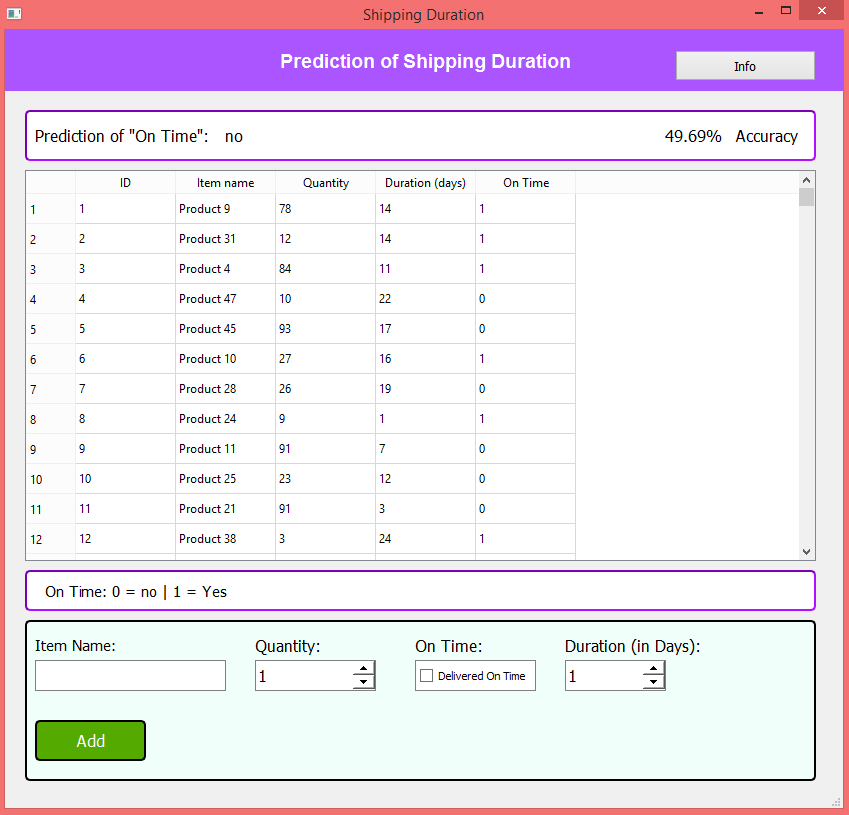
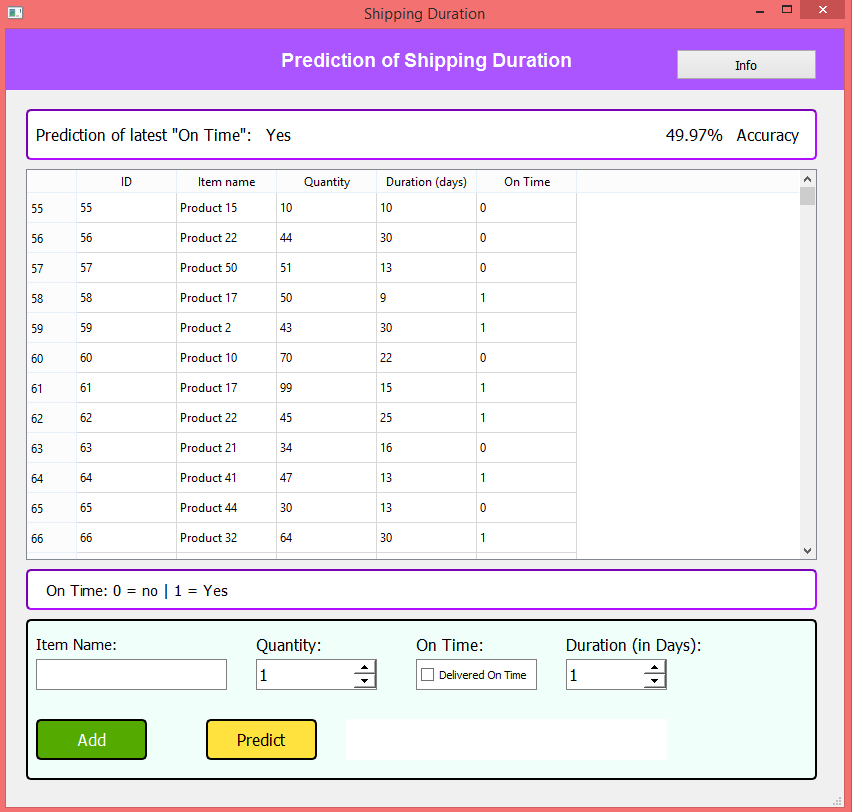
Create Custom Prediction Feature Added

diff --git a/app.py b/app.py
@@ -1,11 +1,11 @@
 from PyQt5 import QtCore, QtGui, QtWidgets
 from sklearn import tree
+from sklearn.ensemble import RandomForestClassifier
 from sklearn.metrics import accuracy_score
 from sklearn.preprocessing import StandardScaler
 import sqlite3
 import hashlib
 import random
-import statistics
 
 
 class Ui_MainWindow(object):
@@ -47,7 +47,7 @@ class Ui_MainWindow(object):
         self.containerHeader.setObjectName("containerHeader")
 
         self.predictionTitle = QtWidgets.QLabel(self.containerHeader)
-        self.predictionTitle.setGeometry(QtCore.QRect(10, 10, 181, 31))
+        self.predictionTitle.setGeometry(QtCore.QRect(10, 10, 221, 31))
         font = QtGui.QFont()
         font.setPointSize(12)
         self.predictionTitle.setFont(font)
@@ -57,7 +57,7 @@ class Ui_MainWindow(object):
         self.predictionTitle.setObjectName("predictionTitle")
 
         self.predictionValue = QtWidgets.QLabel(self.containerHeader)
-        self.predictionValue.setGeometry(QtCore.QRect(200, 10, 51, 31))
+        self.predictionValue.setGeometry(QtCore.QRect(240, 10, 51, 31))
         font = QtGui.QFont()
         font.setPointSize(12)
         self.predictionValue.setFont(font)
@@ -206,6 +206,26 @@ class Ui_MainWindow(object):
         self.tableInfo.setFrameShadow(QtWidgets.QFrame.Raised)
         self.tableInfo.setObjectName("tableInfo")
 
+        self.predictOntimeButton = QtWidgets.QPushButton(self.frame_2)
+        self.predictOntimeButton.setGeometry(QtCore.QRect(180, 100, 111, 41))
+        font = QtGui.QFont()
+        font.setPointSize(12)
+        self.predictOntimeButton.setFont(font)
+        self.predictOntimeButton.setStyleSheet("background-color: rgb(255, 226, 61);\n"
+                                               "color: black")
+        self.predictOntimeButton.setObjectName("predictOntimeButton")
+
+        self.createPredictionDisplay = QtWidgets.QLabel(self.frame_2)
+        self.createPredictionDisplay.setGeometry(QtCore.QRect(320, 100, 321, 41))
+        font = QtGui.QFont()
+        font.setPointSize(12)
+        self.createPredictionDisplay.setFont(font)
+        self.createPredictionDisplay.setStyleSheet("background-color:white;\n"
+                                                   "border: 2px none rgb(121, 0, 181);\n"
+                                                   "border-radius: 0px;\n"
+                                                   "padding-left: 5px;")
+        self.createPredictionDisplay.setObjectName("createPredictionDisplay")
+
         self.tableInfoTextView = QtWidgets.QLabel(self.tableInfo)
         self.tableInfoTextView.setGeometry(QtCore.QRect(20, 10, 751, 21))
         sizePolicy = QtWidgets.QSizePolicy(QtWidgets.QSizePolicy.Ignored, QtWidgets.QSizePolicy.Preferred)
@@ -241,12 +261,13 @@ class Ui_MainWindow(object):
 
         # Functions
         self.addShippingDurationButton.clicked.connect(self.save_shippeditem)
+        self.predictOntimeButton.clicked.connect(self.create_prediction)
 
     def retranslateUi(self, MainWindow):
         _translate = QtCore.QCoreApplication.translate
         MainWindow.setWindowTitle(_translate("MainWindow", "Shipping Duration"))
         self.apptitle.setText(_translate("MainWindow", "Prediction of Shipping Duration"))
-        self.predictionTitle.setText(_translate("MainWindow", "Prediction of \"On Time\": "))
+        self.predictionTitle.setText(_translate("MainWindow", "Prediction of latest \"On Time\": "))
         self.predictionValue.setText(_translate("MainWindow", " "))
         self.accuracyTitle.setText(_translate("MainWindow", "Accuracy"))
         self.shippeditemNameTextview.setText(_translate("MainWindow", "Item Name:"))
@@ -259,6 +280,7 @@ class Ui_MainWindow(object):
         self.infoButtonMainWindow.setText(_translate("MainWindow", "Info"))
         self.shippingDurationTable.setHorizontalHeaderLabels(
             ['ID', 'Item name', 'Quantity', 'Duration (days)', 'On Time'])
+        self.predictOntimeButton.setText(_translate("MainWindow", "Predict"))
 
     def load_Database(self):
         # Try to load data from database for checking purposes. If database was not created, then create database.
@@ -306,9 +328,9 @@ class Ui_MainWindow(object):
         # Load table with shipped items data
         rowIndex = 0
         self.shippingDurationTable.setRowCount(0)
-        # Data that is needed to create prediction (item name, quantity, duration)
+        # Features - Data that is needed to create prediction (item name, quantity, duration)
         self.X_coordinate = []
-        # Prediction data (on time values of all shipped items)
+        # Labels - Prediction data (on time values of all shipped items)
         self.y_coordinate = []
         self.shippingDurationTable.editTriggers()
         self.quantitityShippingItemsArray = []
@@ -330,8 +352,8 @@ class Ui_MainWindow(object):
                                                    QtWidgets.QTableWidgetItem(str(shippingItemEntry[4])))
 
                 self.X_coordinate.append([])
-                itemnameHash = int(hashlib.sha256("Hallo".encode("utf-8")).hexdigest(), 16) % 10 ** 10
-                self.X_coordinate[rowIndex - 1].append(itemnameHash)
+                #itemnameHash = int(hashlib.sha256("Hallo".encode("utf-8")).hexdigest(), 16) % 10 ** 10
+                #self.X_coordinate[rowIndex - 1].append(itemnameHash)
                 self.X_coordinate[rowIndex - 1].append(shippingItemEntry[2])
                 self.X_coordinate[rowIndex - 1].append(shippingItemEntry[3])
                 self.y_coordinate.append(shippingItemEntry[4])
@@ -349,7 +371,7 @@ class Ui_MainWindow(object):
         self.durationShippingItemsAverage = sum(self.durationShippingItemsArray) / len(self.durationShippingItemsArray)
         # Add additional shipping item for prediction of future shipping item "on item" value - X_Coordinate uses average value
         self.X_coordinate.append([])
-        self.X_coordinate[rowIndex - 1].append(0)
+        #self.X_coordinate[rowIndex - 1].append(0)
         self.X_coordinate[rowIndex - 1].append(self.quantitityShippingItemsAverage)
         self.X_coordinate[rowIndex - 1].append(self.durationShippingItemsAverage)
         self.y_coordinate.append(round((sum(self.y_coordinate)/len(self.y_coordinate)),0))
@@ -361,21 +383,27 @@ class Ui_MainWindow(object):
         if (len(self.shippeditemsRecords) > 0):
             # Most middle index of the database list
             center_index = int(len(self.shippeditemsRecords) / 2)
+            # Features
             # The first half of available data is used for training - The second is used to test the prediction (accuracy)
             self.X_coordinate_train = self.X_coordinate[:-center_index]
             self.X_coordinate_real = self.X_coordinate[-center_index:]
             # Scaling to optimize data against biases
-            # standardScalerObj = StandardScaler()
-            # self.X_coordinate_train = standardScalerObj.fit_transform(self.X_coordinate_train)
-            # self.X_coordinate_real = standardScalerObj.transform(self.X_coordinate_real)
+            #standardScalerObj = StandardScaler()
+            #self.X_coordinate_train = standardScalerObj.fit_transform(self.X_coordinate_train)
+            #self.X_coordinate_real = standardScalerObj.transform(self.X_coordinate_real)
 
-            # The data that should be predicted
+            # Labels - The data that should be predicted
             self.y_coordinate_train = self.y_coordinate[:-center_index]
             self.y_coordinate_real = self.y_coordinate[-center_index:]
             # Train through created shipping item data - Create prection
-            shippingitem_classification = tree.DecisionTreeClassifier()
+            shippingitem_classification = RandomForestClassifier(n_estimators=300)
             shippingitem_classification.fit(self.X_coordinate_train, self.y_coordinate_train)
             prediction_ontime_shippingitem = shippingitem_classification.predict(self.X_coordinate_real)
+
+            # OLD prediction method
+            #shippingitem_classification = tree.DecisionTreeClassifier()
+            #shippingitem_classification.fit(self.X_coordinate_train, self.y_coordinate_train)
+            #prediction_ontime_shippingitem = shippingitem_classification.predict(self.X_coordinate_real)
 
             if (prediction_ontime_shippingitem[len(prediction_ontime_shippingitem) - 1]):
                 self.predictionValue.setText("Yes")
@@ -394,8 +422,8 @@ class Ui_MainWindow(object):
 
     def save_shippeditem(self):
         shippeditemName = self.shippeditemNameValue.text().title()
-        shippeditemQuantity = self.shippedItemQuantityValue.text().title()
-        shippeditemDuration = self.shippedItemDurationValue.text().title()
+        shippeditemQuantity = int(self.shippedItemQuantityValue.text().title())
+        shippeditemDuration = int(self.shippedItemDurationValue.text().title())
         if (self.shippedItemOnTime.isChecked()):
             shippeditemOnTime = 1
         else:
@@ -471,6 +499,36 @@ class Ui_MainWindow(object):
         cursor.close()
         sqliteConn.close()
 
+    #Create prediction with new shipped item. Display the prediction value (on time) for the new shipped item.
+    def create_prediction(self):
+        shippeditemQuantity = int(self.shippedItemQuantityValue.text().title())
+        shippeditemDuration = int(self.shippedItemDurationValue.text().title())
+        self.X_coordinate.pop()
+        self.X_coordinate.append([shippeditemQuantity, shippeditemDuration])
+
+        train_index = int(len(self.shippeditemsRecords) * 0.70)
+        rest_index = len(self.shippeditemsRecords) - train_index
+
+        # The last 70 percent of available data is used for training - The first 30 is used to test the prediction (accuracy)
+        self.X_coordinate_train = self.X_coordinate[:train_index]
+        self.X_coordinate_real = self.X_coordinate[train_index:]
+
+        # The data that should be predicted
+        self.y_coordinate_train = self.y_coordinate[:train_index]
+        self.y_coordinate_real = self.y_coordinate[train_index:]
+        # Train through created shipping item data - Create prection
+        shippingitem_classification = RandomForestClassifier(n_estimators=300)
+        shippingitem_classification.fit(self.X_coordinate_train, self.y_coordinate_train)
+        prediction_ontime_shippingitem = shippingitem_classification.predict(self.X_coordinate_real)
+
+        #New prediction value is in the last array item
+        newPredictionValue = ""
+        if (prediction_ontime_shippingitem[-1]):
+            newPredictionValue="Yes"
+        else:
+            newPredictionValue="no"
+        newPredictionAccuracy = accuracy_score(prediction_ontime_shippingitem, self.y_coordinate_real) * 100
+        self.createPredictionDisplay.setText("-> On Time: " + newPredictionValue + " - " + "{:.2f}".format(newPredictionAccuracy) + "% Accuracy")
 
 class Ui_infoWindowDialog(object):
     def setupUi(self, infoWindowDialog):
@@ -519,10 +577,12 @@ class Ui_infoWindowDialog(object):
         infoWindowDialog.setWindowTitle(_translate("infoWindowDialog", "Info about this application"))
         self.okButtonInfoWindow.setText(_translate("infoWindowDialog", "OK"))
         self.infoWindowMainText.setText(_translate("infoWindowDialog",
-                                                   "<html><head/><body><p>This app allows you to save information about shipped items. </p><p>This app then creates a prediction, if the next (future) shipped item gets on time.<br>You also get an accuracy of the prediction. <br> More shipped items data equal to more accuracy in the prediction.<br>You can also use the function <span style=\" font-family:\'Courier New\'; color:#000000; background-color:#e4e4ff;\">load_test_data_into_database()</span> in the python file &quot;app.py&quot; <br>to add large test data for productive testing purposes. </p></body></html>"))
+                                                   "<html><head/><body><p>This app allows you to save information about shipped items. </p><p>This app then creates a prediction, if the next (future) shipped item gets on time.<br>You also get an accuracy of the prediction. <br> You can show the prediction for a new shipping item, when you click on the button predicate. <br> More shipped items data equal to more accuracy in the prediction. <br>You can also use the function <span style=\" font-family:\'Courier New\'; color:#000000; background-color:#e4e4ff;\">load_test_data_into_database()</span> in the python file &quot;app.py&quot; <br>to add large test data for productive testing purposes. </p></body></html>"))
         self.infoWindowTitle.setText(_translate("infoWindowDialog", "Info"))
         self.infoWindowHeaderText.setText(
             _translate("infoWindowDialog", "Developed by: A.Dridi  - https://github.com/a-dridi"))
+
+
 
 
 if __name__ == "__main__":
@@ -533,7 +593,7 @@ if __name__ == "__main__":
     ui = Ui_MainWindow()
     ui.load_Database()
     # TEST: Uncomment the following only for one run time
-    # ui.load_test_data_into_database()
+    ui.load_test_data_into_database()
     ui.setupUi(MainWindow)
     ui.load_prediction()
     MainWindow.show()

diff --git a/qt/mainwindow.py b/qt/mainwindow.py
@@ -43,7 +43,7 @@ class Ui_MainWindow(object):
         self.containerHeader.setFrameShadow(QtWidgets.QFrame.Raised)
         self.containerHeader.setObjectName("containerHeader")
         self.predictionTitle = QtWidgets.QLabel(self.containerHeader)
-        self.predictionTitle.setGeometry(QtCore.QRect(10, 10, 181, 31))
+        self.predictionTitle.setGeometry(QtCore.QRect(10, 10, 221, 31))
         font = QtGui.QFont()
         font.setPointSize(12)
         self.predictionTitle.setFont(font)
@@ -52,13 +52,14 @@ class Ui_MainWindow(object):
 "border-radius: 0px;")
         self.predictionTitle.setObjectName("predictionTitle")
         self.predictionValue = QtWidgets.QLabel(self.containerHeader)
-        self.predictionValue.setGeometry(QtCore.QRect(200, 10, 51, 31))
+        self.predictionValue.setGeometry(QtCore.QRect(240, 10, 51, 31))
         font = QtGui.QFont()
         font.setPointSize(12)
         self.predictionValue.setFont(font)
         self.predictionValue.setStyleSheet("background-color:white;\n"
 "border: 2px none rgb(121, 0, 181);\n"
 "border-radius: 0px;")
+        self.predictionValue.setText("")
         self.predictionValue.setObjectName("predictionValue")
         self.accuracyValue = QtWidgets.QLabel(self.containerHeader)
         self.accuracyValue.setGeometry(QtCore.QRect(640, 10, 71, 31))
@@ -175,6 +176,24 @@ class Ui_MainWindow(object):
 "border-radius: 0px;\n"
 "padding: 4px;")
         self.shippedItemOnTime.setObjectName("shippedItemOnTime")
+        self.predictOntimeButton = QtWidgets.QPushButton(self.frame_2)
+        self.predictOntimeButton.setGeometry(QtCore.QRect(180, 100, 111, 41))
+        font = QtGui.QFont()
+        font.setPointSize(12)
+        self.predictOntimeButton.setFont(font)
+        self.predictOntimeButton.setStyleSheet("background-color: rgb(255, 226, 61);\n"
+"color: black")
+        self.predictOntimeButton.setObjectName("predictOntimeButton")
+        self.createPredictionDisplay = QtWidgets.QLabel(self.frame_2)
+        self.createPredictionDisplay.setGeometry(QtCore.QRect(320, 100, 321, 41))
+        font = QtGui.QFont()
+        font.setPointSize(12)
+        self.createPredictionDisplay.setFont(font)
+        self.createPredictionDisplay.setStyleSheet("background-color:white;\n"
+"border: 2px none rgb(121, 0, 181);\n"
+"border-radius: 0px;\n"
+"padding-left: 5px;")
+        self.createPredictionDisplay.setObjectName("createPredictionDisplay")
         self.tableInfo = QtWidgets.QFrame(self.centralwidget)
         self.tableInfo.setGeometry(QtCore.QRect(20, 540, 791, 41))
         self.tableInfo.setStyleSheet("background-color:white;\n"
@@ -215,8 +234,7 @@ class Ui_MainWindow(object):
         _translate = QtCore.QCoreApplication.translate
         MainWindow.setWindowTitle(_translate("MainWindow", "MainWindow"))
         self.apptitle.setText(_translate("MainWindow", "Prediction of Shipping Duration"))
-        self.predictionTitle.setText(_translate("MainWindow", "Prediction of \"On Time\": "))
-        self.predictionValue.setText(_translate("MainWindow", " "))
+        self.predictionTitle.setText(_translate("MainWindow", "Prediction of latest \"On Time\": "))
         self.accuracyTitle.setText(_translate("MainWindow", "Accuracy"))
         self.shippeditemNameTextview.setText(_translate("MainWindow", "Item Name:"))
         self.addShippingDurationButton.setText(_translate("MainWindow", "Add"))
@@ -224,6 +242,8 @@ class Ui_MainWindow(object):
         self.shippedItemOnTimeTextview.setText(_translate("MainWindow", "On Time:"))
         self.shippedItemDurationTextview.setText(_translate("MainWindow", "Duration:"))
         self.shippedItemOnTime.setText(_translate("MainWindow", "Delivered On Time"))
+        self.predictOntimeButton.setText(_translate("MainWindow", "Predict"))
+        self.createPredictionDisplay.setText(_translate("MainWindow", "Prediction of latest \"On Time\": "))
         self.tableInfoTextView.setText(_translate("MainWindow", "On Time: 0 = no | 1 = Yes"))
         self.infoButtonMainWindow.setText(_translate("MainWindow", "Info"))
 

diff --git a/README.md b/README.md
@@ -1,11 +1,18 @@
-#Shipping Duration Prediction - Machine Learning: Python Example Application
+# Shipping Duration Prediction - Machine Learning: Python Example/Test Application
+
+* Production versions of this application are also available upon request.
 
 This is a Python desktop application coded with Qt framework which uses the packge Scikit-Learn. This is an machine learning example application in Python.
 This application allows you to save information about shipped product items which are used to predict, if the next shipping will be delivered on time. 
 
+
+Video of this application
+https://youtu.be/kSjgF9Og2KA
+
+
 ![Screenshot of Application](https://raw.githubusercontent.com/a-dridi/ml_shipping_item_on_time_prediction/master/img/screenshot.PNG)
 
-##Features
+## Features
 You can save the product item name, quantitiy, duration and if it did get on time. 
 Creates prediction if the next shipping will be delivered on time. The accuracy improves through amount of available information about the shipped product items. 
 Displays the accuracy of the prediction
